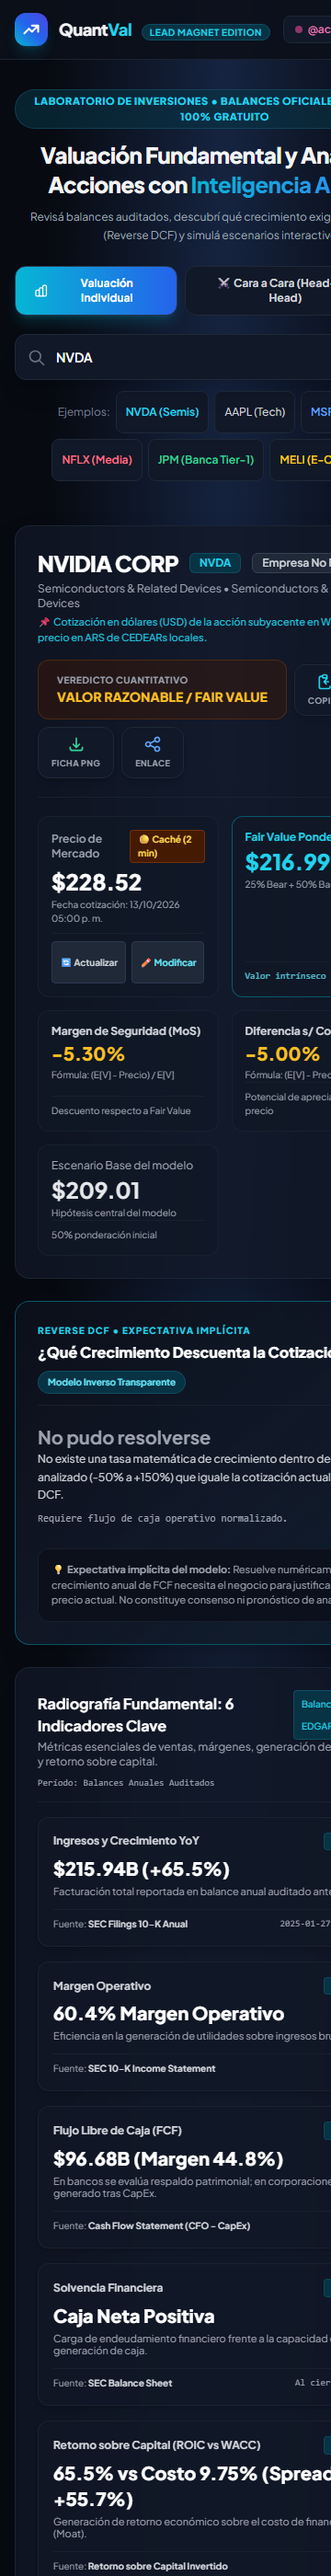
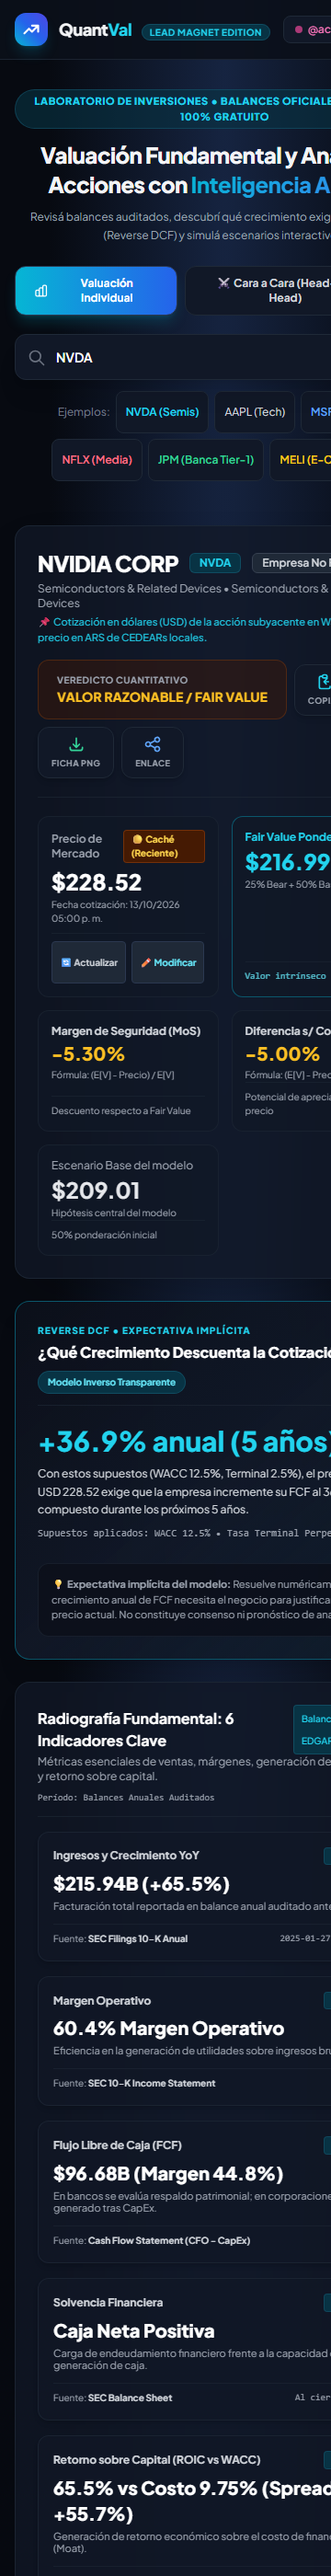
fix(duel): resolve cagr scope and support cagr_expected_pct in Tale of the Tape

Changed region(s): [[0.0917, 0.5282, 1.0, 1.0], [0.3667, 0.3107, 0.55, 0.3418], [0.7333, 0.7146, 0.825, 0.7457]]

diff --git a/static/app.js b/static/app.js
@@ -934,20 +934,22 @@ function renderDuelDashboard(dA, dB) {
   // 5-Year CAGR Cara a Cara
   const cagrA = dA.expected_5y_cagr || dA.valuation?.expected_5y_cagr || {};
   const cagrB = dB.expected_5y_cagr || dB.valuation?.expected_5y_cagr || {};
+  const cagrValA = cagrA.cagr_expected_pct !== undefined ? cagrA.cagr_expected_pct : cagrA.cagr_expected_weighted_pct;
+  const cagrValB = cagrB.cagr_expected_pct !== undefined ? cagrB.cagr_expected_pct : cagrB.cagr_expected_weighted_pct;
 
   const tirTickerA = document.getElementById("duelTirTickerA");
   if (tirTickerA) tirTickerA.innerText = dA.symbol || dA.ticker;
   const tirExpectedA = document.getElementById("duelTirExpectedA");
-  if (tirExpectedA) tirExpectedA.innerText = `${(cagrA.cagr_expected_weighted_pct || 0) >= 0 ? '+' : ''}${(cagrA.cagr_expected_weighted_pct || 0).toFixed(1)}%`;
+  if (tirExpectedA) tirExpectedA.innerText = cagrValA !== null && cagrValA !== undefined ? `${cagrValA >= 0 ? '+' : ''}${cagrValA.toFixed(1)}%` : "N/D";
   const tirSpreadA = document.getElementById("duelTirSpreadA");
-  if (tirSpreadA) tirSpreadA.innerText = `${(cagrA.sp500_spread_pct || 0) >= 0 ? '+' : ''}${(cagrA.sp500_spread_pct || 0).toFixed(1)}% vs S&P 500`;
+  if (tirSpreadA) tirSpreadA.innerText = cagrA.sp500_spread_pct !== null && cagrA.sp500_spread_pct !== undefined ? `${cagrA.sp500_spread_pct >= 0 ? '+' : ''}${cagrA.sp500_spread_pct.toFixed(1)}% vs S&P 500` : "N/D vs S&P 500";
 
   const tirTickerB = document.getElementById("duelTirTickerB");
   if (tirTickerB) tirTickerB.innerText = dB.symbol || dB.ticker;
   const tirExpectedB = document.getElementById("duelTirExpectedB");
-  if (tirExpectedB) tirExpectedB.innerText = `${(cagrB.cagr_expected_weighted_pct || 0) >= 0 ? '+' : ''}${(cagrB.cagr_expected_weighted_pct || 0).toFixed(1)}%`;
+  if (tirExpectedB) tirExpectedB.innerText = cagrValB !== null && cagrValB !== undefined ? `${cagrValB >= 0 ? '+' : ''}${cagrValB.toFixed(1)}%` : "N/D";
   const tirSpreadB = document.getElementById("duelTirSpreadB");
-  if (tirSpreadB) tirSpreadB.innerText = `${(cagrB.sp500_spread_pct || 0) >= 0 ? '+' : ''}${(cagrB.sp500_spread_pct || 0).toFixed(1)}% vs S&P 500`;
+  if (tirSpreadB) tirSpreadB.innerText = cagrB.sp500_spread_pct !== null && cagrB.sp500_spread_pct !== undefined ? `${cagrB.sp500_spread_pct >= 0 ? '+' : ''}${cagrB.sp500_spread_pct.toFixed(1)}% vs S&P 500` : "N/D vs S&P 500";
 
   renderDuelTable(dA, dB);
 }
@@ -972,6 +974,11 @@ function renderDuelTable(dA, dB) {
   const fB = dB.latest_financials || {};
   const isBankA = (dA.archetype === "FINANCIALS_BANKING" || dA.financial_sector);
   const isBankB = (dB.archetype === "FINANCIALS_BANKING" || dB.financial_sector);
+
+  const cagrA = dA.expected_5y_cagr || dA.valuation?.expected_5y_cagr || {};
+  const cagrB = dB.expected_5y_cagr || dB.valuation?.expected_5y_cagr || {};
+  const cagrValA = cagrA.cagr_expected_pct !== undefined ? cagrA.cagr_expected_pct : cagrA.cagr_expected_weighted_pct;
+  const cagrValB = cagrB.cagr_expected_pct !== undefined ? cagrB.cagr_expected_pct : cagrB.cagr_expected_weighted_pct;
 
   const rows = [
     {
@@ -1017,8 +1024,8 @@ function renderDuelTable(dA, dB) {
     {
       name: "Variación CAGR 5 Años",
       desc: "Apreciación geométrica anual esperada",
-      valA: cagrA.cagr_expected_weighted_pct,
-      valB: cagrB.cagr_expected_weighted_pct,
+      valA: cagrValA,
+      valB: cagrValB,
       fmt: v => v !== null && v !== undefined ? `${v >= 0 ? '+' : ''}${v.toFixed(1)}%` : "N/D",
       cmp: (a, b) => (a === null || b === null) ? "TIE" : (a > b ? "A" : (b > a ? "B" : "TIE"))
     }

diff --git a/fetch_financials.py b/fetch_financials.py
@@ -365,6 +365,7 @@ def calculate_probabilistic_scenarios(start_fcf, shares, cash, debt, base_wacc, 
         },
         "expected_5y_cagr": {
             "cagr_expected_pct": cagr_exp,
+            "cagr_expected_weighted_pct": cagr_exp,
             "cagr_base_pct": cagr_base,
             "cagr_bear_pct": cagr_bear,
             "cagr_bull_pct": cagr_bull,
